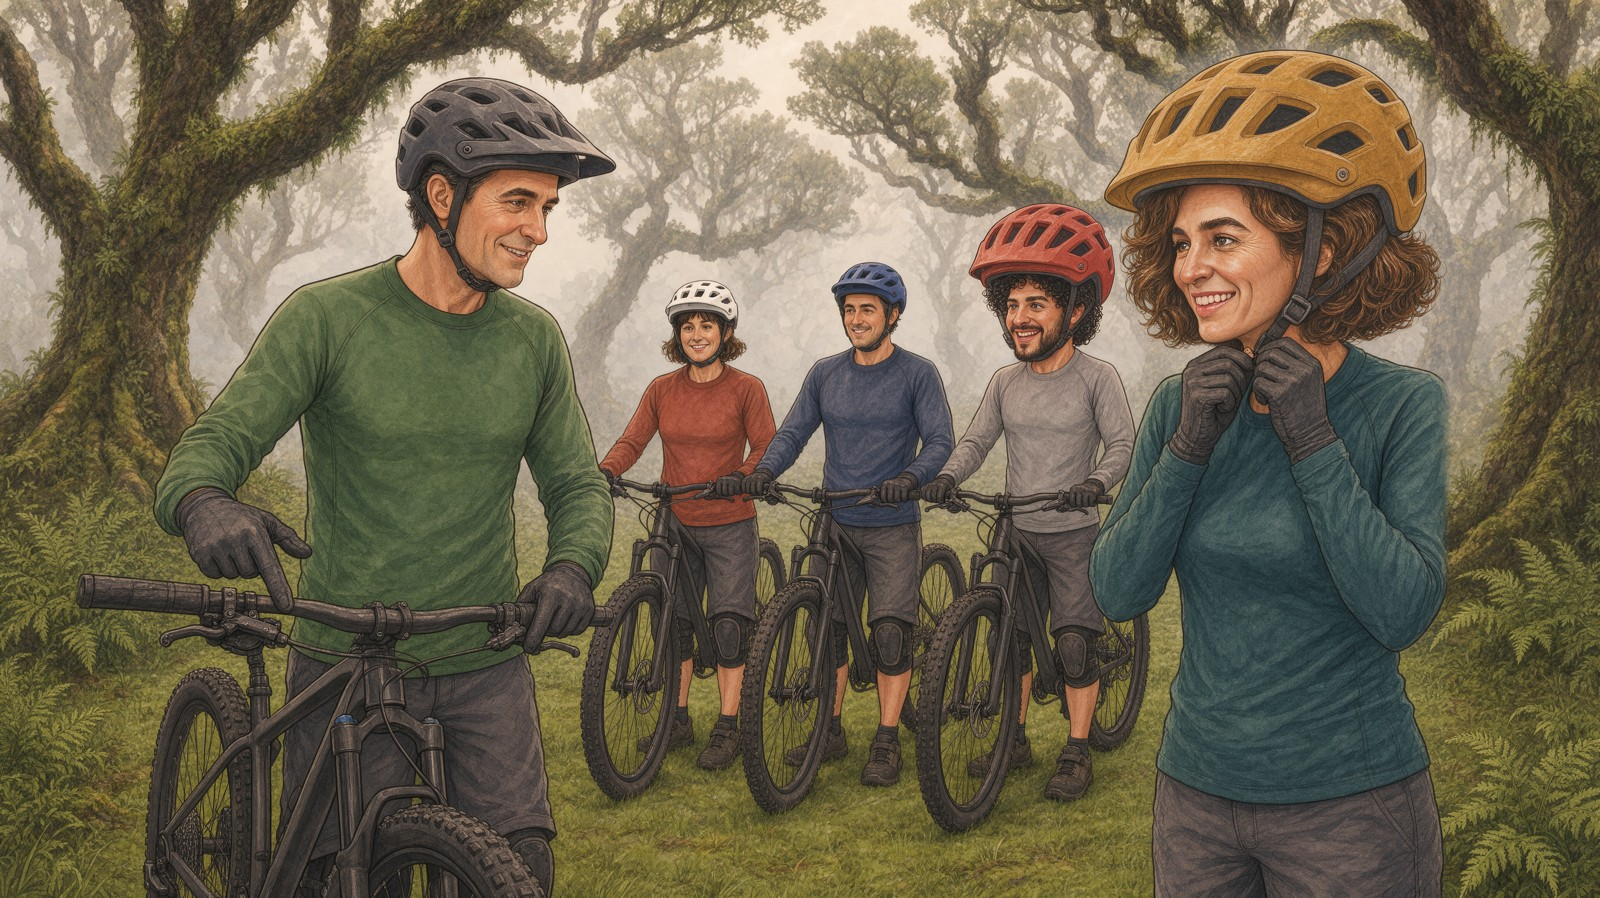
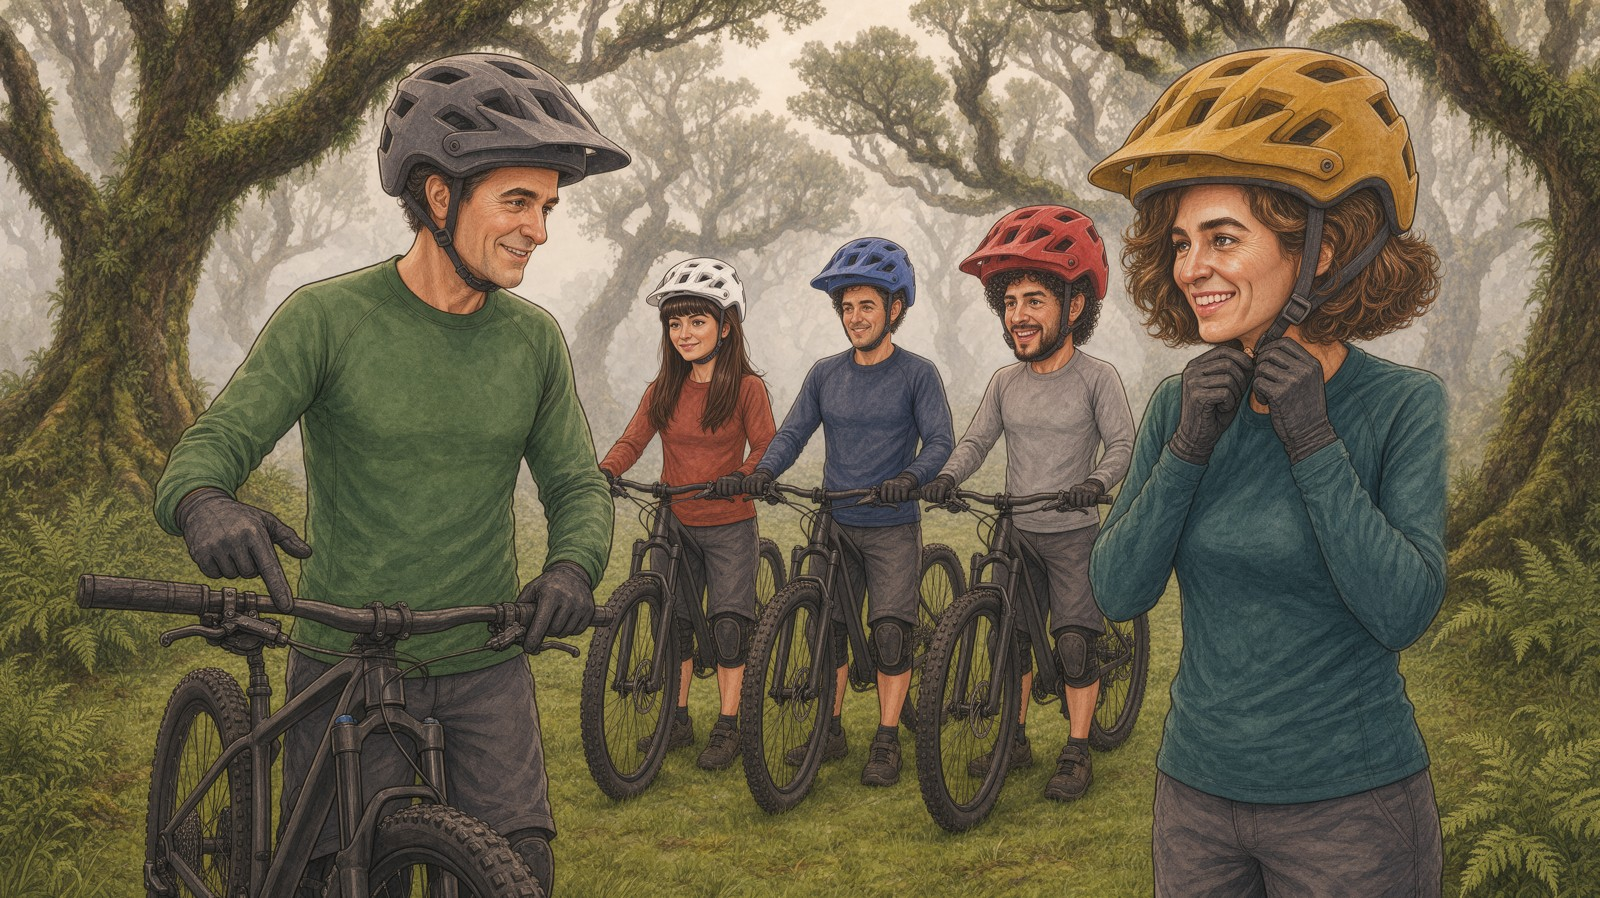
Book 20: one helmet model and size on every page (helmet sheet as reference); rule in the illustrations skill
Claude-Session: https://claude.ai/code/session_01QETqfy7oCZmnPUVD333HTN

Changed region(s): [[0.5, 0.0312, 0.9062, 0.3742], [0.2188, 0.0312, 0.4062, 0.2806], [0.4062, 0.2806, 0.5, 0.4989]]

diff --git a/skills/madeira-book-illustrations/SKILL.md b/skills/madeira-book-illustrations/SKILL.md
@@ -186,7 +186,7 @@ Download the result (`curl` the gen.krea.ai URL) and check it yourself before th
 6. **Cuttable:** go through the page's words and confirm each thing is whole, separate and big enough to cut cleanly (the Step 1 list). A thing hidden or merged now means a bad highlight later — fix it with a regional edit before approval.
 Show the user the full picture and the check image, and tell them plainly what matches and what doesn't.
 
-- **Helmets (bike, climbing, canyoning):** write in every prompt that the helmet sits low and snug like a real one — the shell hugs the skull, down to just above the eyebrows and over the tops of the ears, pressing the hair flat, only the hair ends showing below the rim. The helmet never grows to fit the hair: it is the same size on everyone (compare with a short-haired rider's helmet), and full hair is compressed under it. Krea otherwise perches helmets on top of full hair or inflates them over it (Ana's bob, Tiago's curls) so they look like they float; the user noticed in book 20. Check every helmeted head at full size.
+- **Helmets (bike, climbing, canyoning):** write in every prompt that the helmet sits low and snug like a real one — the shell hugs the skull, down to just above the eyebrows and over the tops of the ears, pressing the hair flat, only the hair ends showing below the rim. The helmet never grows to fit the hair: it is the same size on everyone (compare with a short-haired rider's helmet), and full hair is compressed under it. Krea otherwise perches helmets on top of full hair or inflates them over it (Ana's bob, Tiago's curls) so they look like they float; the user noticed in book 20. Check every helmeted head at full size. **For any book with helmets, first make a helmet sheet** (book 20: `books/20-nevoeiro/art/helmet_design.jpg`, Krea 9561d9d1): one helmet model in each rider's colour, worn by every rider at the same scale, hair compressed; pass it as a reference on every page with helmets and name the model in the prompt. Then compare all helmeted heads side by side, each scaled to the same height (`helmet_check.jpg`): the shell should be about twice the face width on everyone. A regional edit over each helmet with the sheet as the second image fixes a page without repainting it.
 
 ## Krea cost (checked Nov 16, 2026 with `preflight: true`)
 - A krea-3 picture or regional edit at 2K costs about 130 units with `thinking_mode` "high" **and** "fast" alike, so always use "high". 1K saves only about 14% and is below the 1600×898 master size: keep 2K.

diff --git a/tools/b20/README.md b/tools/b20/README.md
@@ -6,7 +6,7 @@ Masters and Krea ids in `books/20-nevoeiro/art/` (`krea_urls.txt`); prompts in `
 Outfits: MTB jerseys — Rita terracotta + white helmet, Ana teal + mustard, João navy + blue, Tiago light grey + red,
 Rui forest green + dark grey; dark grey baggy shorts, black knee pads, black gloves; five identical matte-black hardtails.
 Fixed after review (Nov 16): p2 Ana bob, long sleeves, Rui points at the lever; p4 Rita falling; p6 long sleeves; helmets
-snug and normal-sized on p2–p6 (user: "helmet size doesn't increase, hair gets compressed").
+snug and normal-sized on p2–p6 (user: "helmet size doesn't increase, hair gets compressed"). Then every helmet on p1–p7 was repainted to one model and size from the helmet sheet `helmet_design.jpg` (check: `helmet_check.jpg`).
 Story: mountain biking at the Fanal trail centre (old til trees, fog, free-range cows) with Rui, João's friend, a PE
 teacher who guides mountain-bike rides. Rita falls in the mud after a cow blocks the trail; the fog lifts over the
 north coast; Tiago fixes a puncture; Ana tells Rita that João asked her to move in with him — no answer yet.
